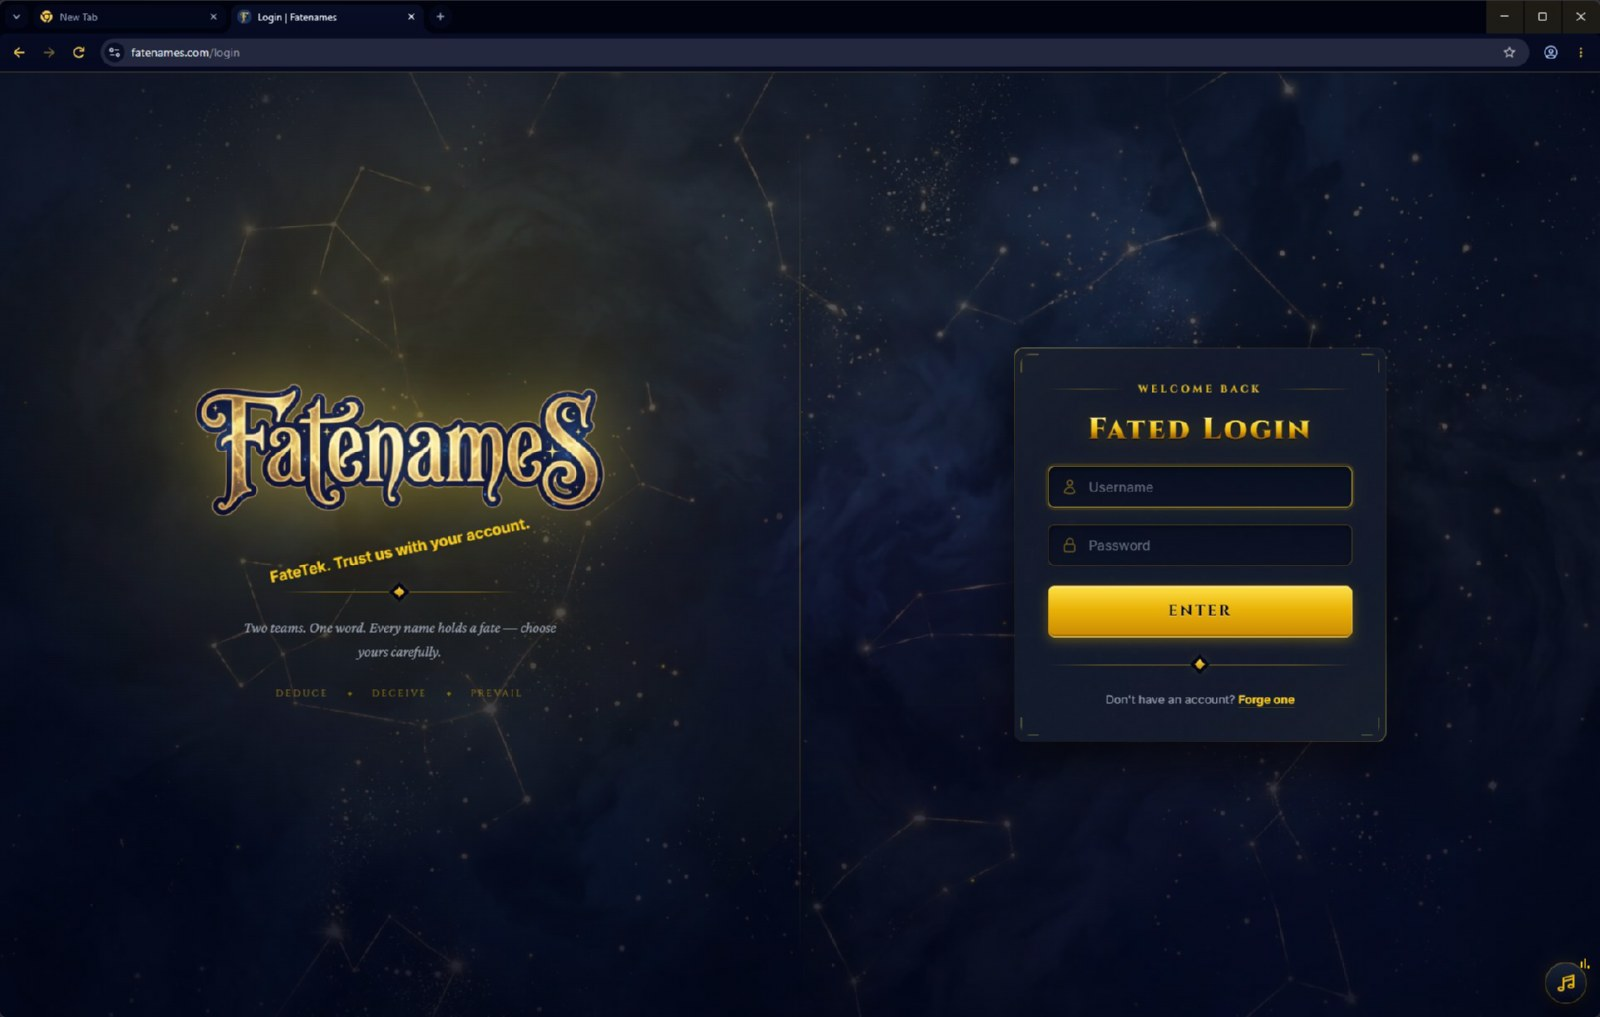
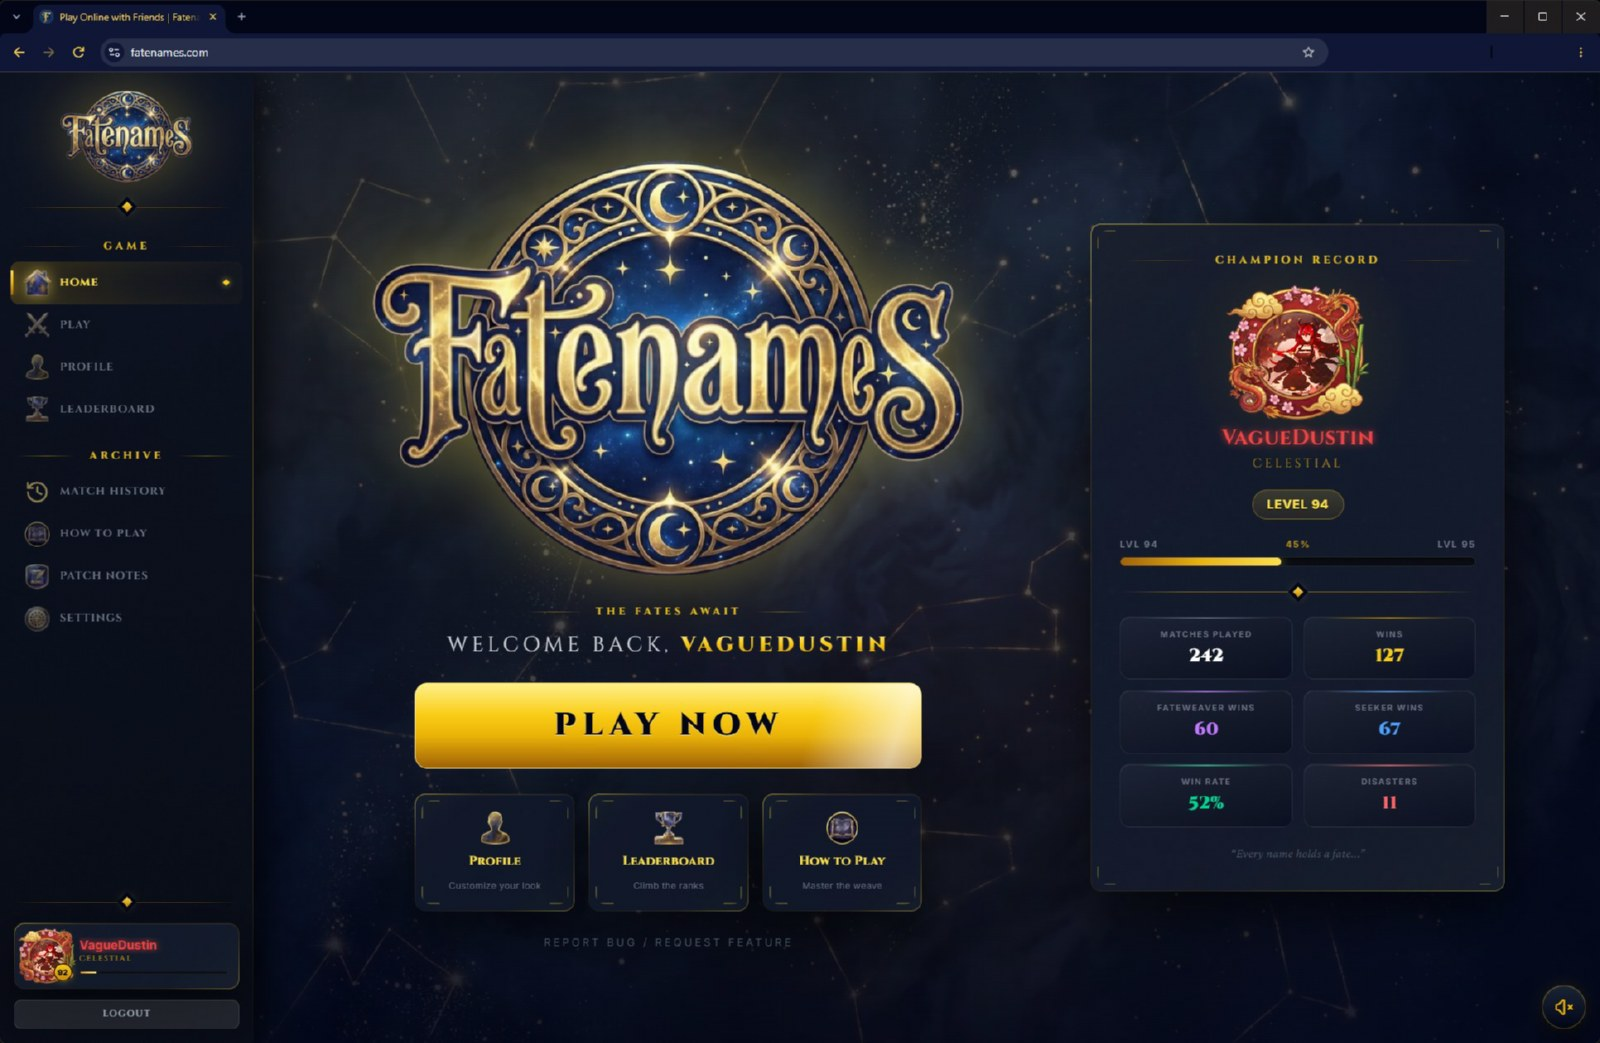
Use the authored listing assets, and keep them out of dist/
The hand-made promo tile and screenshots were sitting in dist/store/, which is
gitignored and deleted at the top of every build — the next `node build.mjs`
would have destroyed them. They now live in assets/store/ and the build copies
them into dist/store/, so that stays the one folder to upload from.

The build also stops generating the 440x280 tile, since a real crop of the
browser chrome sells the theme better than a crop of its own wallpaper, and
conditions anything named screenshot* to 1280x800 — the captures are 1932px
wide, and the store accepts exactly 1280x800 or 640x400 and nothing else.

README is rebuilt around them: icon and Add to Chrome button as a centred
header, the new tab capture as the hero, the browsing capture under what it
changes, and the tab close-up illustrating the gold accent rule. All three
show the current build, where the old screenshots still showed the
low-contrast tabs and the gold tiling lines.

diff --git a/README.md b/README.md
@@ -1,16 +1,24 @@
-<img src="docs/banner.jpg" alt="" width="100%">
+<p align="center">
+  <img src="docs/icon.png" width="96" alt="">
+</p>
 
-# FATE
+<h1 align="center">FATE</h1>
 
-A Chrome theme in deep navy and metallic gold. Constellations, nebula, and a gilded crescent, across
-every surface of the browser.
+<p align="center">
+  A Chrome theme in deep navy and metallic gold.<br>
+  Constellations, nebula, and a gilded crescent, across every surface of the browser.
+</p>
+
+<p align="center">
+  <a href="https://chromewebstore.google.com/detail/fate/lghbfnmjlmfdledicaefdejmfmmehdpd"><img src="https://img.shields.io/badge/Add%20to%20Chrome-D4AF37?style=for-the-badge&labelColor=070B1A&color=D4AF37&logo=googlechrome&logoColor=D4AF37" alt="Add to Chrome"></a>
+</p>
+
+<img src="docs/screenshot-newtab.jpg" alt="The new tab page: a navy night sky with constellations, nebula and a gilded crescent" width="100%">
 
 ## Install
 
-[![Add to Chrome](https://img.shields.io/badge/Add%20to%20Chrome-D4AF37?style=for-the-badge&labelColor=070B1A&color=D4AF37&logo=googlechrome&logoColor=D4AF37)](https://chromewebstore.google.com/detail/fate/lghbfnmjlmfdledicaefdejmfmmehdpd)
-
-One click, from the Chrome Web Store. Works in Chrome, Brave, Edge, and anything else built on
-Chromium.
+One click, from the [Chrome Web Store](https://chromewebstore.google.com/detail/fate/lghbfnmjlmfdledicaefdejmfmmehdpd).
+Works in Chrome, Brave, Edge, and anything else built on Chromium.
 
 Chrome holds one theme at a time. To remove it, go to **Settings → Appearance → Reset to default**.
 
@@ -25,8 +33,6 @@ unpacked.</sub>
 - Toolbar controls — back, forward, reload, menu — in metallic gold
 - The tab you are on lifted out of the frame, with a gold label
 - A painted night sky on the new tab page
-
-<img src="docs/screenshot-newtab.jpg" alt="The new tab page: a navy night sky with constellations, nebula and a gilded crescent" width="100%">
 
 <img src="docs/screenshot-browsing.jpg" alt="The browser frame, tab strip and omnibox while browsing" width="100%">
 
@@ -45,6 +51,8 @@ Navy `#070B1A` and gold `#D4AF37`, the palette shared across every VagueDustin E
 
 Gold is kept for what you can act on — the toolbar controls, links, and the tab you are on. Nothing
 decorative uses it, which is what lets it read at a glance against near-black navy.
+
+<img src="docs/tab-detail.png" alt="Close-up of the tab strip: the selected tab lifted out of the frame with a gold label" width="440">
 
 Navy and gold, inscribed rather than printed, lit from somewhere just off the page.
 

diff --git a/docs/BUILD.md b/docs/BUILD.md
@@ -21,8 +21,16 @@ files by a recorded step rather than drawn by the build.
 
 | File | Size | Used for |
 | --- | --- | --- |
-| `fate-chrome-theme-wallpaper.png` | 1920×1080 | New tab background, promo tiles, README banner |
+| `fate-chrome-theme-wallpaper.png` | 1920×1080 | New tab background, marquee tile, README banner |
 | `fate-chrome-theme-icon.png` | 1254×1254 | Extension and store icons, 16/32/48/128 |
+
+`assets/store/` holds **hand-made listing assets** — the 440×280 promo tile and the screenshots.
+They live there rather than in `dist/store/` because `dist/` is deleted at the top of every build;
+the build copies them across so `dist/store/` stays the single folder you upload from. Anything
+named `screenshot*` also gets a conditioned 1280×800 copy, since the store rejects every other size.
+
+`docs/banner.jpg` is generated but unused by the README — it is the right shape for GitHub's social
+preview image, under *Settings → General → Social preview*.
 
 Replacing either file and rerunning `node build.mjs` is the whole update path. PNG and baseline JPEG
 sources are both accepted.
